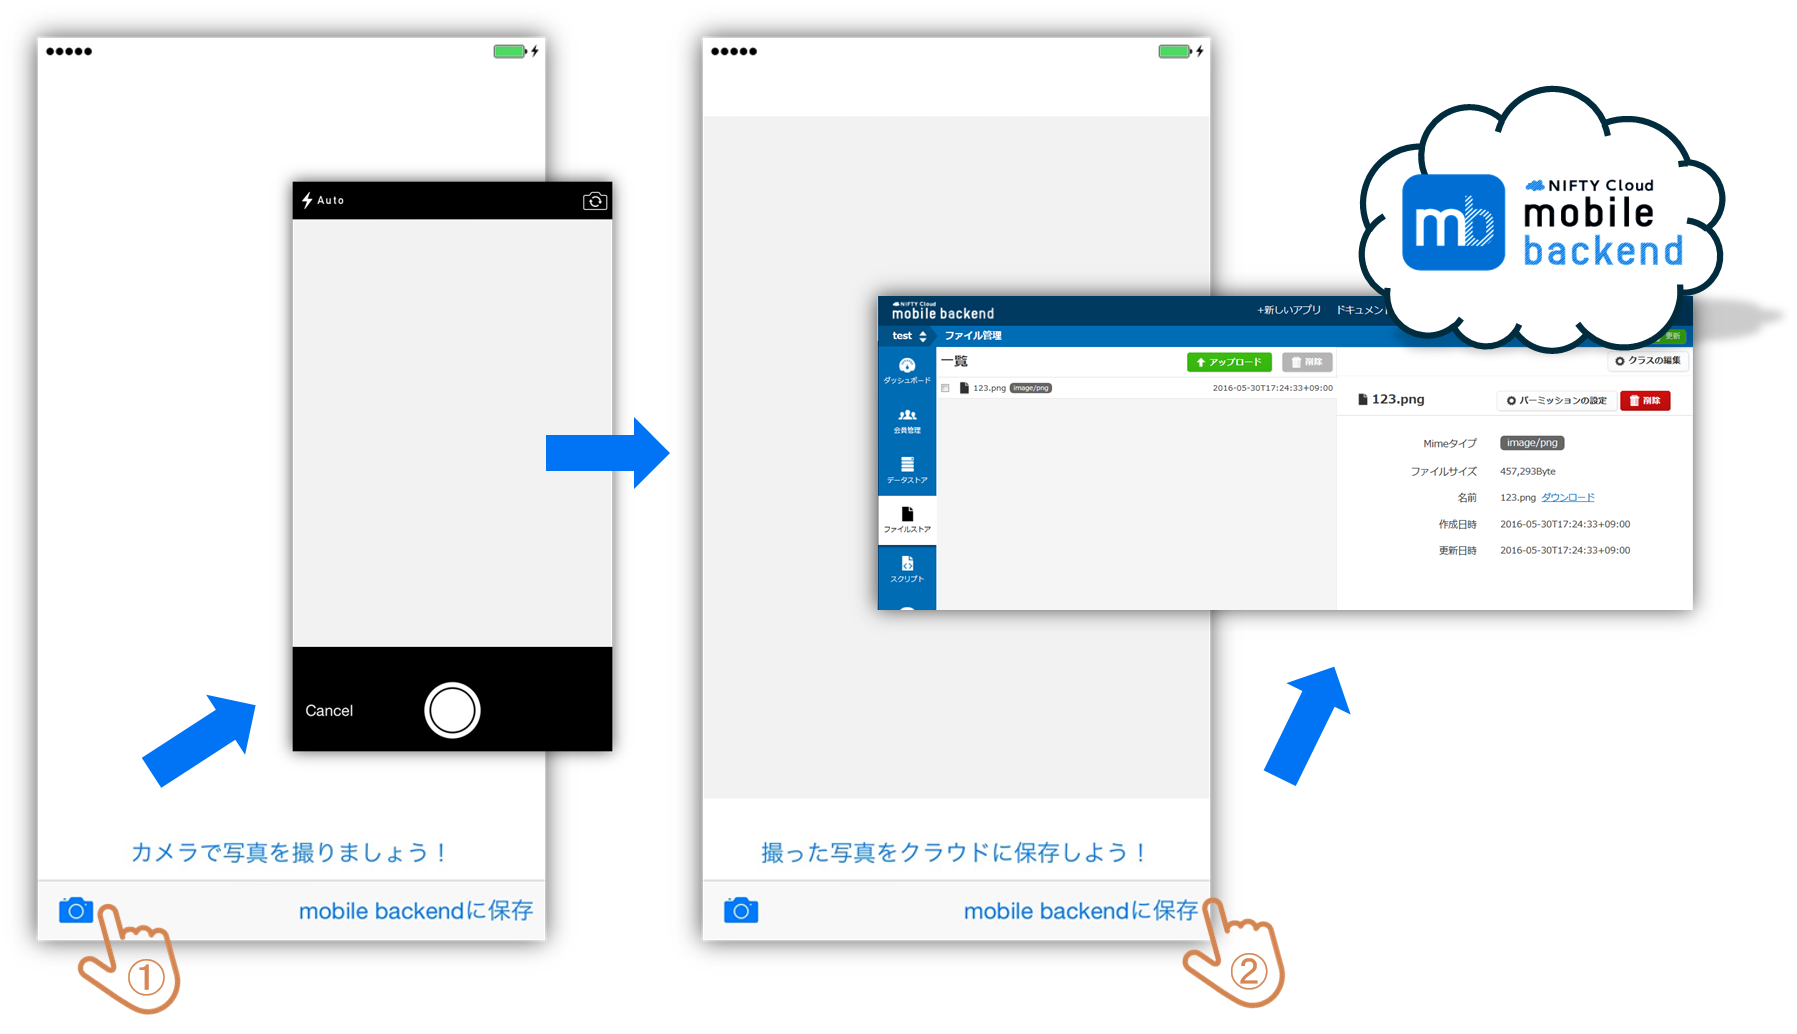
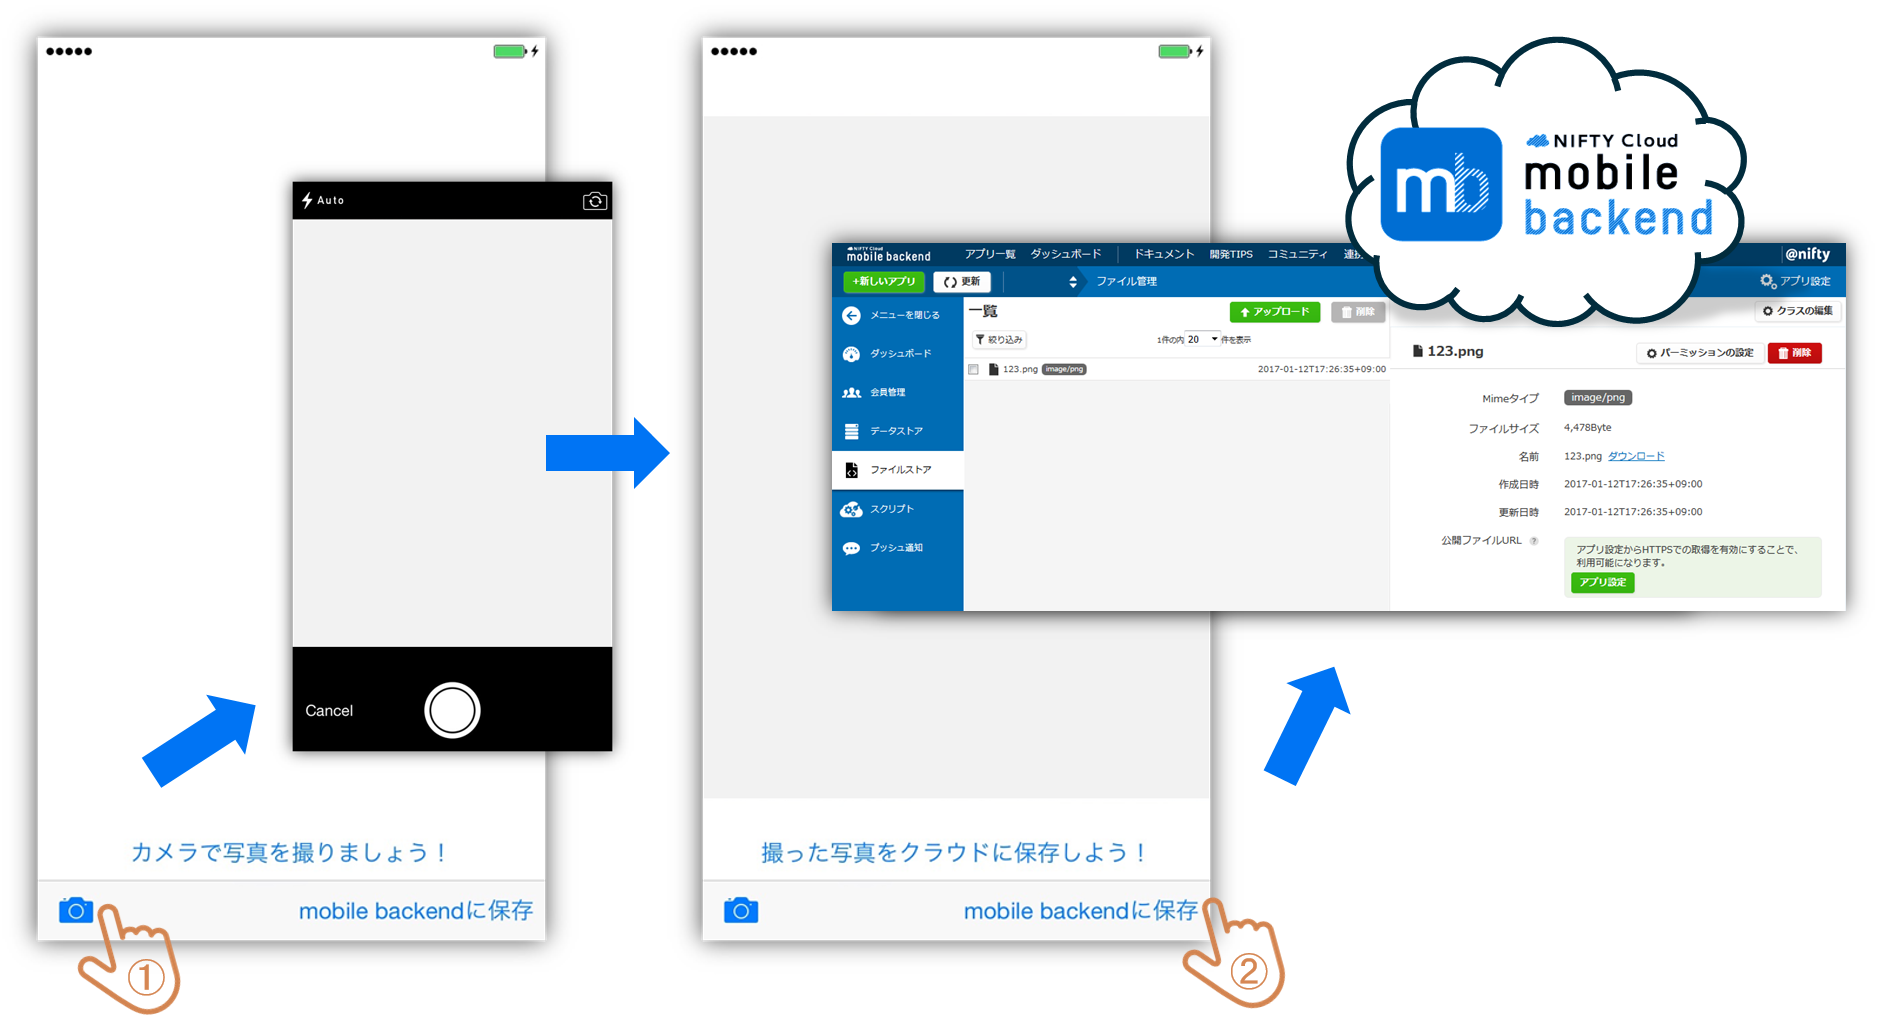
update README to adapt new dashboard
・新コンパネ対応
・微修正

diff --git a/README.md b/README.md
@@ -37,15 +37,19 @@
 
 ![画像5](/readme-img/005.png)
 
-### 2. [GitHub](https://github.com/natsumo/SwiftFileApp.git)からサンプルプロジェクトのダウンロード
-
-* この画面([GitHub](https://github.com/natsumo/SwiftFileApp.git))の![画像10](/readme-img/010.png)ボタンをクリックし、さらに![画像11](/readme-img/011.PNG)ボタンをクリックしてサンプルプロジェクトをMacにダウンロードします
+#### 2. GitHubからサンプルプロジェクトのダウンロード
+* 下記リンクをクリックしてプロジェクトをダウンロードをMacにダウンロードします
+ * __[SwiftFileApp](https://github.com/natsumo/SwiftFileApp/archive/master.zip)__
 
 ### 3. Xcodeでアプリを起動
+* ダウンロードしたフォルダを開き、「SwiftFileApp.xcworkspace」をダブルクリックしてXcode開きます(白い方です)
 
-* ダウンロードしたフォルダを開き、![画像09](/readme-img/009.png)をダブルクリックしてXcode開きます　![画像08](/readme-img/008.png)
+![画像09](/readme-img/009.png)
 
 ![画像6](/readme-img/006.png)
+
+* 「SwiftFileApp.xcodeproj」（青い方）ではないので注意してください！
+![画像08](/readme-img/008.png)
 
 ### 4. APIキーの設定
 
@@ -112,7 +116,7 @@ import UIKit
 import NCMB
 
 class ViewController: UIViewController, UINavigationControllerDelegate, UIImagePickerControllerDelegate {
-    
+
     @IBOutlet weak var cameraView: UIImageView!
     @IBOutlet weak var label: UILabel!
 
@@ -121,7 +125,7 @@ class ViewController: UIViewController, UINavigationControllerDelegate, UIImageP
         // Do any additional setup after loading the view, typically from a nib.
         self.label.text = "カメラで写真を撮りましょう！"
     }
-    
+
     // 「カメラ」ボタン押下時の処理
     @IBAction func cameraStart(sender: AnyObject) {
 
@@ -132,36 +136,36 @@ class ViewController: UIViewController, UINavigationControllerDelegate, UIImageP
             cameraPicker.sourceType = sourceType
             cameraPicker.delegate = self
             self.presentViewController(cameraPicker, animated: true, completion: nil)
-            
+
         } else {
             print("エラーが発生しました")
             self.label.text = "エラーが発生しました"
-            
+
         }
     }
-    
+
     // 撮影が終了したときに呼ばれる
     func imagePickerController(picker: UIImagePickerController, didFinishPickingMediaWithInfo info: [String : AnyObject]) {
         if let pickedImage = info[UIImagePickerControllerOriginalImage] as? UIImage {
             cameraView.contentMode = .ScaleAspectFit
             cameraView.image = pickedImage
             self.label.text = "撮った写真をクラウドに保存しよう！"
-            
+
         }
-        
+
         // 閉じる処理
         picker.dismissViewControllerAnimated(true, completion: nil)
-        
+
     }
-    
+
     // 撮影がキャンセルされた時に呼ばれる
     func imagePickerControllerDidCancel(picker: UIImagePickerController) {
         picker.dismissViewControllerAnimated(true, completion: nil)
         print("キャンセルされました")
         self.label.text = "キャンセルされました"
-        
+
     }
-    
+
     // 「mobile backendに保存」ボタン押下時の処理
     @IBAction func saveImage(sender: AnyObject) {
         let image: UIImage! = cameraView.image
@@ -169,16 +173,16 @@ class ViewController: UIViewController, UINavigationControllerDelegate, UIImageP
         if image == nil {
             print("画像がありません")
             self.label.text = "画像がありません"
-            
+
             return
-            
+
         }
-        
+
         // 画像をリサイズする
         let imageW : Int = Int(image.size.width*0.2)
         let imageH : Int = Int(image.size.height*0.2)
         let resizeImage = resize(image, width: imageW, height: imageH)
-        
+
         // ファイル名を決めるアラートを表示
         let alert = UIAlertController(title: "保存します", message: "ファイル名を指定してください", preferredStyle: .Alert)
         // UIAlertControllerにtextFieldを追加
@@ -188,48 +192,48 @@ class ViewController: UIViewController, UINavigationControllerDelegate, UIImageP
         alert.addAction(UIAlertAction(title: "OK", style: .Default) { (action: UIAlertAction!) -> Void in
             // 入力したテキストをファイル名に指定
             let fileName = alert.textFields![0].text! + ".png"
-            
+
             // 画像をNSDataに変換
             let pngData = NSData(data: UIImagePNGRepresentation(resizeImage)!)
             let file = NCMBFile.fileWithName(fileName, data: pngData) as! NCMBFile
-            
+
             // ACL設定（読み書き可）
             let acl = NCMBACL()
             acl.setPublicReadAccess(true)
             acl.setPublicWriteAccess(true)
             file.ACL = acl
-            
+
             // ファイルストアへ画像のアップロード
             file.saveInBackgroundWithBlock({ (error: NSError!) -> Void in
                 if error != nil {
                     // 保存失敗時の処理
                     print("保存に失敗しました。エラーコード：\(error.code)")
                     self.label.text = "保存に失敗しました：\(error.code)"
-                    
+
                 } else {
                     // 保存成功時の処理
                     print("保存に成功しました")
                     self.label.text = "保存に成功しました"
-                    
+
                 }
-                
+
             }, progressBlock: { (int: Int32) -> Void in
                 self.label.text = "保存中：\(int)％"
-                
+
             })
         })
-        
+
         // アラートのCancel押下時の処理
         alert.addAction(UIAlertAction(title: "Cancel", style: .Default) { (action: UIAlertAction!) -> Void in
             print("保存がキャンセルされました")
             self.label.text = "保存がキャンセルされました"
-            
+
         })
-        
+
         presentViewController(alert, animated: true, completion: nil)
-        
+
     }
-    
+
     // 画像をリサイズする処理
     func resize (image: UIImage, width: Int, height: Int) -> UIImage {
         let size: CGSize = CGSize(width: width, height: height)
@@ -237,11 +241,11 @@ class ViewController: UIViewController, UINavigationControllerDelegate, UIImageP
         image.drawInRect(CGRectMake(0, 0, size.width, size.height))
         let resizeImage = UIGraphicsGetImageFromCurrentImageContext()
         UIGraphicsEndImageContext()
-        
+
         return resizeImage
-        
+
     }
-    
+
     override func didReceiveMemoryWarning() {
         super.didReceiveMemoryWarning()
         // Dispose of any resources that can be recreated.
